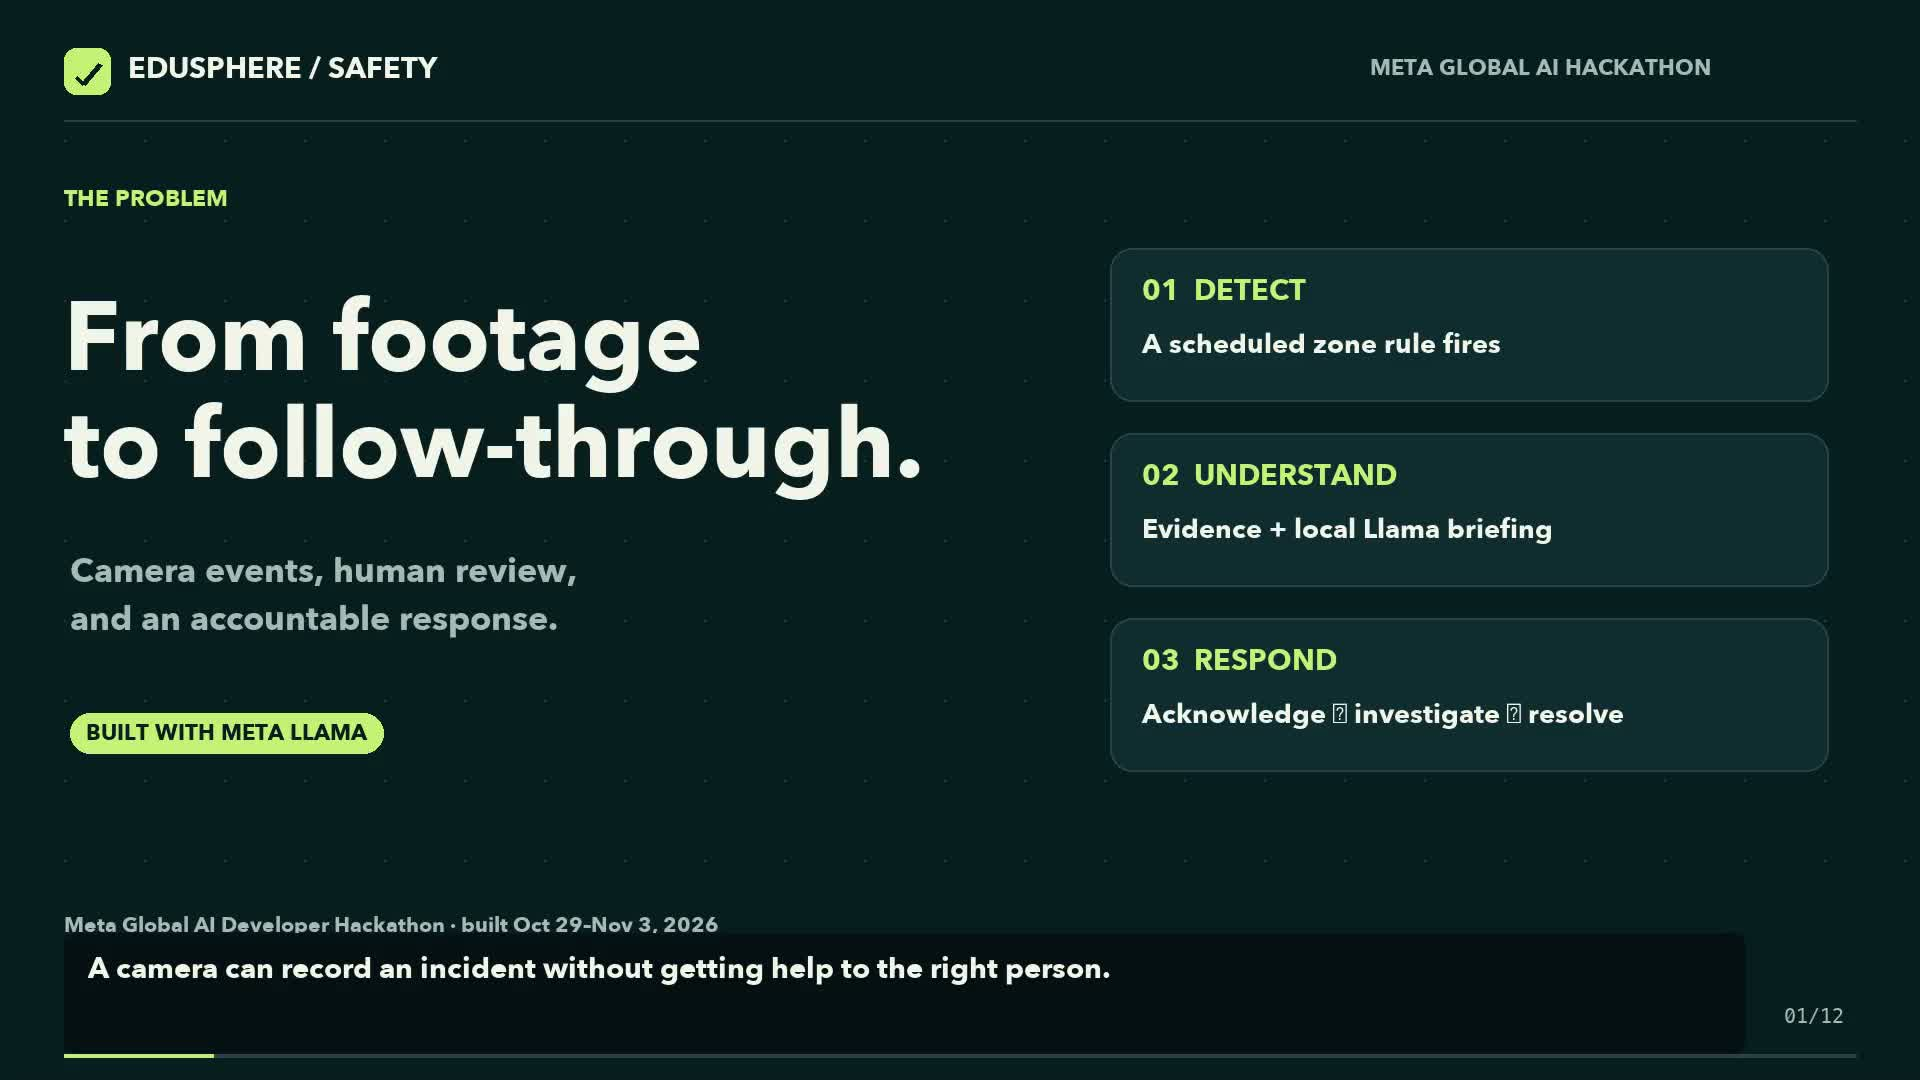
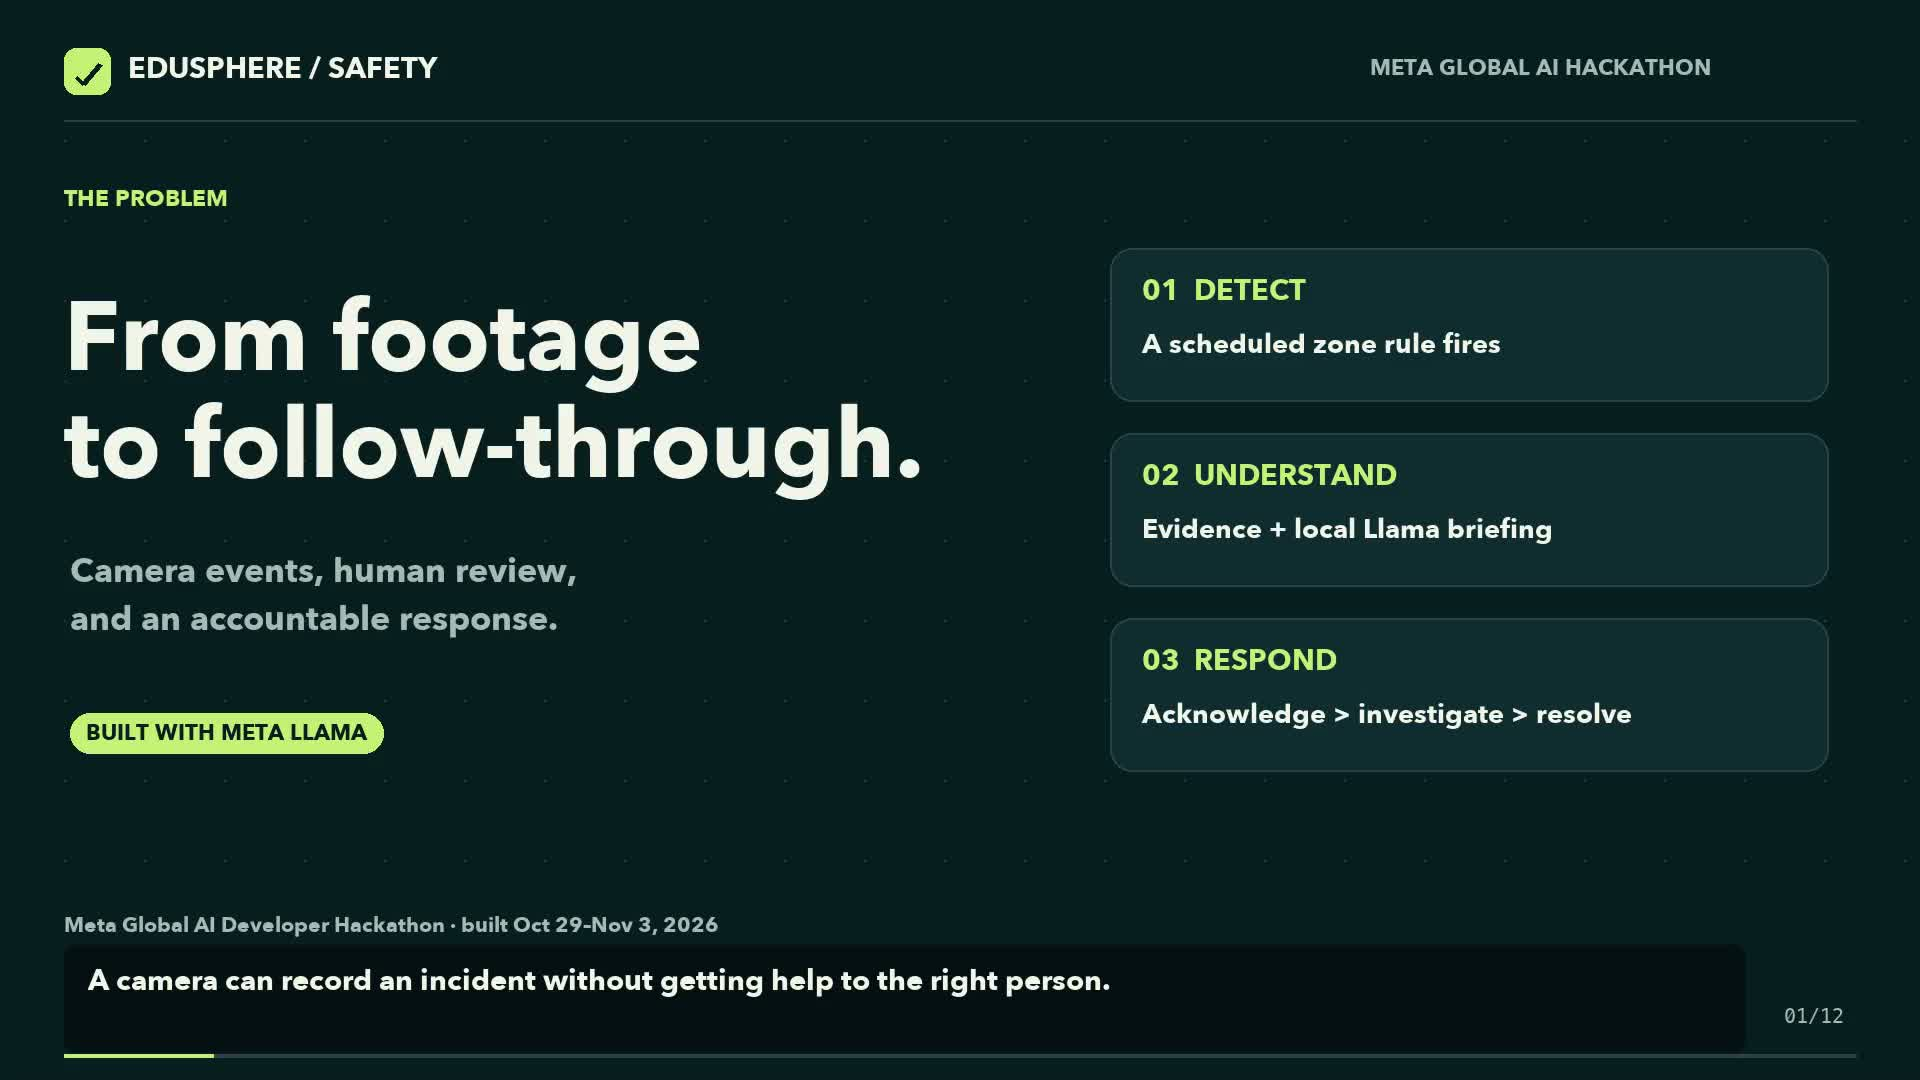
Finalize captioned three-minute demo and public watch page

Changed region(s): [[0.0312, 0.8861, 0.5938, 0.9167], [0.6875, 0.6417, 0.8438, 0.6722]]

diff --git a/submission/source/render-video.py b/submission/source/render-video.py
@@ -193,7 +193,7 @@ def render():
         '-i',str(SUB/'edusphere-safety-demo.srt'),'-map','0:v','-map','0:a','-map','1:0','-c:v','copy','-c:a','copy',
         '-c:s','mov_text','-metadata:s:s:0','language=eng','-metadata','title=EduSphere Safety — Meta Global AI Developer Hackathon',
         '-metadata','comment=Real app recordings; synthetic pipeline footage; local Meta Llama briefing; inference wait shortened.',
-        '-t','179.95','-movflags','+faststart',str(final)],check=True)
+        '-t','179.8','-movflags','+faststart',str(final)],check=True)
     subprocess.run(['ffmpeg','-y','-loglevel','error','-ss','3','-i',str(final),'-frames:v','1',str(SUB/'demo-poster.jpg')],check=True)
     print('Final duration:',probe(final),'seconds',flush=True)
     storyboard()

diff --git a/submission/RELEASE_NOTES.md b/submission/RELEASE_NOTES.md
@@ -1,0 +1,24 @@
+# EduSphere Safety — Meta Global AI Developer Hackathon 2026
+
+[Watch the three-minute demo](https://vicosoft4real.github.io/edusphere-safety/)
+or download the MP4 attached below. No sign-in required.
+
+The video records the running Next.js console, .NET API and PostgreSQL-backed
+incident workflow: zone rules, synthetic edge pipeline proof, duplicate-safe
+ingestion, authorized evidence playback, real local Meta Llama 3.2 briefings,
+acknowledgement, investigation, resolution and diagnostics.
+
+- **Video:** 179.89 seconds, 1920×1080, 30 fps, H.264/AAC; English narration and captions.
+- **Source:** public, MIT-licensed application code; model weights have separate licenses.
+- **Validation:** 509 existing .NET tests passed, 0 failed, 0 skipped; web type check,
+  lint and production build passed; live authorization, evidence and Llama checks passed.
+- **Judge explanation:** [detailed guide](https://github.com/vicosoft4real/edusphere-safety/blob/main/submission/JUDGES_GUIDE.md).
+
+The demo uses deterministic synthetic footage and manifest-replayed detections
+through the real decoder, tracker and rules engine. An explicit demo harness
+submits the event and uploads supplied synthetic evidence. The local Llama call
+is real; the middle of its wait is shortened and labeled. Email uses local pickup.
+Field accuracy, automatic edge/cloud delivery, live-camera clip extraction and
+production web sign-in remain next steps. Model output is a staff-reviewed draft.
+
+Assets: MP4 demo, English SRT captions, and the detailed judge's guide.

diff --git a/README.md b/README.md
@@ -10,11 +10,14 @@ Built for the **Meta Global AI Developer Hackathon 2026**, under **Build for You
 World**. This is a working prototype, with explicit simulation and deployment
 boundaries. It does not replace supervision or physical safety measures.
 
-- [Three-minute demo and captions](https://github.com/vicosoft4real/edusphere-safety/releases/tag/hackathon-demo)
+- [Watch the three-minute demo](https://vicosoft4real.github.io/edusphere-safety/)
+- [Download the MP4 and captions](https://github.com/vicosoft4real/edusphere-safety/releases/tag/hackathon-demo)
 - [Detailed judge's guide](submission/JUDGES_GUIDE.md)
 - [Submission answers](submission/SUBMISSION_ANSWERS.md)
 - [Architecture and original design](docs/superpowers/specs/2026-10-29-edusphere-safety-design.md)
 - [Operator configuration](docs/operator-notes.md)
+
+[![EduSphere Safety demo](submission/demo-poster.jpg)](https://vicosoft4real.github.io/edusphere-safety/)
 
 ## What runs
 

diff --git a/submission/VALIDATION.md b/submission/VALIDATION.md
@@ -24,6 +24,7 @@ not a substitute for this verification.
 | Main web pages | Overview, devices, cameras, rules, policies, diagnostics and incidents loaded against the real API |
 | Local email transport | Worker wrote `.eml` files to the local pickup directory; no external email sent |
 | Physical CCTV discovery | No ONVIF responder found; no live-camera validation claimed |
+| Final video | 179.89 seconds; 1920×1080, 30 fps, H.264/AAC; English captions; full decode check passed |
 
 The first production-build attempt ran against the active development output
 directory and failed because Next.js development and production processes shared

diff --git a/submission/SUBMISSION_ANSWERS.md b/submission/SUBMISSION_ANSWERS.md
@@ -52,8 +52,11 @@ https://github.com/vicosoft4real/edusphere-safety
 
 ## Three-minute demo video
 
-Use the public MP4 attached to the repository's `hackathon-demo` release. Confirm
-the link opens without signing in before submitting.
+https://vicosoft4real.github.io/edusphere-safety/
+
+The watch page includes an inline player and a direct MP4 download from the public
+`hackathon-demo` release. The final video is 179.89 seconds (under three minutes),
+1920×1080 H.264/AAC, with burned-in English captions and a separate SRT.
 
 ## Describe your use of Meta products to build the submitted project
 
